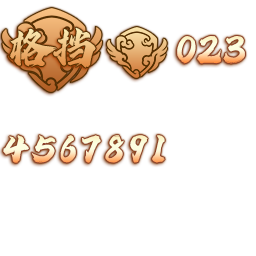
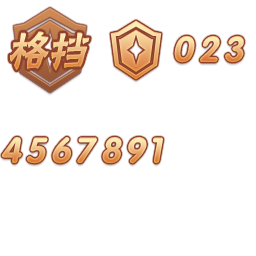
fix(scene): 恢复战斗位图字体槽位配套图

Changed region(s): [[0.0, 0.0, 0.9688, 0.375], [0.0, 0.5, 0.6562, 0.6562]]

diff --git a/Assets/Editor/CliVerify/Cases/BitmapFontCase.cs b/Assets/Editor/CliVerify/Cases/BitmapFontCase.cs
@@ -25,7 +25,7 @@ namespace Shenxiao.EditorTools
         private const string SkillNameFolder = "Assets/GameRes/resource/game/skillName";
         private const string OutputFolder = "output/ui_route_audit/2026-08-06_bitmap-font-remediation";
         // 每轮最终证据写入新目录，避免桌面查看器/报告仍映射旧 PNG 时被覆盖后误读。
-        private const string EvidenceFolder = OutputFolder + "/evidence-r4";
+        private const string EvidenceFolder = OutputFolder + "/evidence-r5";
         private const string InventoryPath = OutputFolder + "/bitmap-font-inventory.json";
         private static readonly JObject RenderedNonBackgroundPixels = new JObject();
         private static readonly string[] RequiredCombatFonts =
@@ -114,7 +114,7 @@ namespace Shenxiao.EditorTools
             {
                 ["status"] = "pass",
                 ["scope"] = "HudTop._lb_fighting + HudTaskTeam._lb_open_awaken_progress + " +
-                            "FightingUpView renamed binds + 10 combat FNT glyph fidelity + direct RawImage glyph rendering + panel lifecycle gate",
+                            "FightingUpView renamed binds + 10 combat FNT glyph fidelity + atlas slot isolation + direct RawImage glyph rendering + panel lifecycle gate",
                 ["resourceMutation"] = "none",
                 ["captures"] = captures,
                 ["renderedNonBackgroundPixels"] = RenderedNonBackgroundPixels,
@@ -315,6 +315,7 @@ namespace Shenxiao.EditorTools
                     FontFolder + "/" + fontName + ".asset");
                 Require(font != null, "战斗位图字体资产不存在: " + fontName);
                 VerifyFntGlyphFidelity(fontName, font);
+                VerifyCombatGlyphAtlasIsolation(fontName, font);
             }
 
             TMP_FontAsset attackFont = AssetDatabase.LoadAssetAtPath<TMP_FontAsset>(
@@ -360,6 +361,53 @@ namespace Shenxiao.EditorTools
                         && Mathf.Approximately(glyph.metrics.horizontalBearingY, height - yOffset)
                         && Mathf.Approximately(glyph.metrics.horizontalAdvance, advance),
                     $"FNT GlyphMetrics 抄写错误: font={fontName}, id={unicode}");
+            }
+        }
+
+        /// <summary>
+        /// 战斗数字是美术逐字图，不允许替换后的笔画越过 FNT 槽位边界。
+        /// 2026-08-06 曾出现十张 PNG 保持旧 FNT 不变、但新字的实心笔画跨槽叠到相邻数字；
+        /// GlyphRect/UV/网格本身全部正确，只有真实组合文本会显示成多笔或多字。
+        /// </summary>
+        private static void VerifyCombatGlyphAtlasIsolation(string fontName, TMP_FontAsset font)
+        {
+            string pngPath = FontFolder + "/" + fontName + ".png";
+            Require(File.Exists(pngPath), "战斗位图字体 PNG 不存在: " + pngPath);
+
+            var atlas = new Texture2D(2, 2, TextureFormat.RGBA32, false);
+            try
+            {
+                Require(ImageConversion.LoadImage(atlas, File.ReadAllBytes(pngPath), false),
+                    "战斗位图字体 PNG 解码失败: " + fontName);
+                font.ReadFontAssetDefinition();
+                const byte opaqueBoundaryThreshold = 224;
+                for (char digit = '0'; digit <= '9'; digit++)
+                {
+                    Require(font.characterLookupTable.TryGetValue(digit, out TMP_Character character)
+                            && character?.glyph != null,
+                        $"战斗位图字体缺数字: font={fontName}, char={digit}");
+                    UnityEngine.TextCore.GlyphRect rect = character.glyph.glyphRect;
+                    Require(rect.x >= 0 && rect.y >= 0 && rect.x + rect.width <= atlas.width
+                            && rect.y + rect.height <= atlas.height,
+                        $"战斗位图字体槽位越出 atlas: font={fontName}, char={digit}, rect={rect}");
+
+                    byte leftMax = 0;
+                    byte rightMax = 0;
+                    for (int y = rect.y; y < rect.y + rect.height; y++)
+                    {
+                        Color32 left = atlas.GetPixel(rect.x, y);
+                        Color32 right = atlas.GetPixel(rect.x + rect.width - 1, y);
+                        if (left.a > leftMax) leftMax = left.a;
+                        if (right.a > rightMax) rightMax = right.a;
+                    }
+                    Require(leftMax < opaqueBoundaryThreshold && rightMax < opaqueBoundaryThreshold,
+                        $"战斗位图字体实心笔画跨过 FNT 槽边界: font={fontName}, char={digit}, " +
+                        $"leftAlpha={leftMax}, rightAlpha={rightMax}, threshold={opaqueBoundaryThreshold}");
+                }
+            }
+            finally
+            {
+                UnityEngine.Object.DestroyImmediate(atlas);
             }
         }
 

diff --git a/AGENTS.md b/AGENTS.md
@@ -4,7 +4,7 @@
 
 - 前台操作与资源闭包规则：用户在电脑前时，能不用 Computer Use 就不用，禁止静默抢占鼠标键盘、窗口焦点或启动/占用 Unity；确需 Computer Use、打开/操作/批处理 Unity 或其他会影响用户前台操作的程序时，必须先说明用途、影响和预计占用时间，待用户确认后再执行。资源任务先从配置、Addressables、版本清单和实际加载链确定固定文件或最小资源闭包，只修改、校验和导入这些目标；禁止无必要全量检出 LFS、创建新 Unity `Library`、触发全库 `AssetDatabase.Refresh`，或扫描、导入、转换、重序列化约 24 万资源。全量处理确实不可避免时，必须先说明理由、范围、预计耗时和替代方案，并取得用户同意。
 
-- 位图字体绑定、直绘与尺寸规则：人工接管的 Prefab 可以重命名节点，老端 `view/node/font` 到当前控件的匹配必须优先解析 View 的序列化 Bind 字段，再以同名节点兜底；禁止只按 `GameObject.name` 判定已应用或遗漏。老端 `Image` 上残留的 `font` 属性若实际由 `SetImageSprite` 等图片链消费，不得误转成 TMP。尺寸必须联合核对 FNT `info size`、真实 glyph 槽高、老端 `BitmapFont.fontSize/autoScaleSize` 与 TMP `faceInfo.pointSize`；单个字体族异常只修对应消费者或明确绑定，禁止据此全局改写全部字体指标或重建全库资源。普通动态 TMP 位图文字恢复原生 `pointSize` 时，按本次文本的 `GetPreferredValues` 扩容、留边并重建网格；但老端若像战斗 `BitmapFont._drawText` 一样直接按 FNT 切片绘制，Unity 必须逐字使用 `x/y/width/height/xoffset/yoffset/xadvance` 直接绘制原 atlas；优先使用内置 `RawImage.uvRect` 等已有稳定出帧链，若自定义 `Graphic` 则必须追加真实 Canvas 像素门禁。不得用 TMP 的 `lineHeight/baseline/preferred/textBounds` 假冒逐字保真，也不得把 `CanvasRenderer` 有 Mesh/顶点当成已经出帧。验收必须逐字核对 FNT 与生成资产、覆盖短串到长串池复用、最大动画缩放和玩家真实场景像素；`textBounds` 落在 Rect 内或 Mesh 位于 Rect 内都只能证明几何自洽，不能证明复刻正确。
+- 位图字体绑定、直绘与尺寸规则：人工接管的 Prefab 可以重命名节点，老端 `view/node/font` 到当前控件的匹配必须优先解析 View 的序列化 Bind 字段，再以同名节点兜底；禁止只按 `GameObject.name` 判定已应用或遗漏。老端 `Image` 上残留的 `font` 属性若实际由 `SetImageSprite` 等图片链消费，不得误转成 TMP。尺寸必须联合核对 FNT `info size`、真实 glyph 槽高、老端 `BitmapFont.fontSize/autoScaleSize` 与 TMP `faceInfo.pointSize`；单个字体族异常只修对应消费者或明确绑定，禁止据此全局改写全部字体指标或重建全库资源。普通动态 TMP 位图文字恢复原生 `pointSize` 时，按本次文本的 `GetPreferredValues` 扩容、留边并重建网格；但老端若像战斗 `BitmapFont._drawText` 一样直接按 FNT 切片绘制，Unity 必须逐字使用 `x/y/width/height/xoffset/yoffset/xadvance` 直接绘制原 atlas；优先使用内置 `RawImage.uvRect` 等已有稳定出帧链，若自定义 `Graphic` 则必须追加真实 Canvas 像素门禁。不得用 TMP 的 `lineHeight/baseline/preferred/textBounds` 假冒逐字保真，也不得把 `CanvasRenderer` 有 Mesh/顶点当成已经出帧。替换 PNG 时还必须逐字检查真实不透明内容是否仍完整落在对应 FNT 槽内；PNG/FNT 哈希各自存在、Unity 与当前 CDN 同源，都不能证明二者仍配套。`fight_font_*` 等带图形前缀和动画缩放的专用 atlas 禁止纳入无逐槽门禁的全局换字；发生单族串字只修固定源图和副本，不得重做全库。验收必须逐字核对 FNT 与生成资产、槽边界、覆盖短串到长串池复用、最大动画缩放和玩家真实场景像素；`textBounds` 落在 Rect 内或 Mesh 位于 Rect 内都只能证明几何自洽，不能证明复刻正确。
 
 - 战斗飘字窗口生命周期规则：禁止用 `UILayer.Window` 一级模块根的 `activeInHierarchy` 判断是否允许飘字；合并模块根会缓存常驻，实际页面关闭只隐藏内部 `BaseView`，这种门槛会造成首次开窗后永久停飘。战斗字保持在场景低排序 Canvas，由 Window 自然遮挡；关闭面板后的验收路径必须是“战斗有飘字→打开角色面板→关闭→下一次受击仍出现”，并同时保留暂停态不生成飘字。
 

diff --git a/Docs/RuntimeCompare/BitmapFont-全局迁移-20260805.md b/Docs/RuntimeCompare/BitmapFont-全局迁移-20260805.md
@@ -75,3 +75,13 @@ Unity.exe -batchmode -projectPath <worktree> `
 - **修复方式**：保留 FNT `GlyphRect/GlyphMetrics` 的逐字边界计算，但移除自定义 Mesh 提交；每个字符改用 Unity 内置 `RawImage`，直接把同一 atlas 赋给 `texture`，把 GlyphRect 换算为 `uvRect`，并按 `xoffset/yoffset/xadvance` 设置子 Rect。短串复用成长串时复用或扩展 RawImage 子项，多余子项隐藏；父级 `CanvasGroup` 统一处理动画淡出。
 - **范围**：只修改 `DamageFontRenderer` 和定向 `BitmapFontCase`，没有修改、同步或重建任何 FNT/PNG/TMP 字体资产，没有改 Addressables，也没有扫描全库资源。新证据目录固定为 `evidence-r4/`，避免覆盖已作废的 r2/r3 结论。
 - **当前验证状态**：Core/Editor 串行离线编译均为 0 warning / 0 error；未操作用户 Unity。玩家真实战斗像素和“出现→开角色→关闭→再次出现”仍待复验，路线继续 `needs-runtime-verify`。
+
+## 8. 2026-08-06 第四次用户复查：替换图跨 FNT 槽串字
+
+用户第四次真实战斗确认 `RawImage` 路线已经恢复出帧，且日志中的四个真实伤害值依次为 `63/64/64/66`；但截图中的每个两位数都带有额外竖笔或相邻数字残片。第 6 节“问题不是图片”的判断只适用于当时检查的文件同源性，现已被更细的图像槽位检查推翻。
+
+- **根因**：十套战斗 `.fnt` 从未改变，Unity 字体资产的 `GlyphRect/GlyphMetrics` 也逐项正确；但 2026-08-04 的全局“字更换”只替换了 `yu_client/cdn/resource/font/fight_font_*.png`，没有同步调整对应 FNT。替换图把新数字画得比旧槽更宽，实心笔画直接跨过左右边界并与相邻数字重叠。Unity 同步的是 CDN 新图，而 `h5/laya/assets/resource/font` 仍保留替换前、与 FNT 配套的原图，所以此前只比较“Unity 与当前 CDN 哈希相等”反而把错误资源当成了绿灯。
+- **证据**：替换前 CDN 的十张战斗 PNG Git blob 与 H5 镜像十张 PNG 完全一致；当前 CDN/Unity 十张则全部不同。对每个数字槽左右边界扫描 Alpha，错误替换图在阈值 `224/255` 下有 77 个数字槽出现实心像素触边，替换前配套图为 0 个。`fight_font_attack` 的错误图在旧 FNT 的 `0/2/3/4/5/6` 连续槽中已经能直接看到相邻字串入。
+- **修复**：只把十张 `fight_font_attack/beattack/baoji/huixin/zhuoyue/shenwu/gedang/fantan/liuxue/huifu.png` 恢复为替换前、与现有 FNT 配套的版本，并同时修正老端 CDN 事实源与 Unity 固定副本。未改任何 `.fnt`、`.asset`、Prefab 或 Addressables，也未同步、导入或重建其他 56 套字体资源。
+- **新门禁**：`BitmapFontCase` 除了核对 FNT 坐标、RawImage UV 与真实像素，还会读取这十张 PNG，逐个检查 `0-9` 的左右槽边界；Alpha 大于等于 224 的实心笔画触边即失败。以后若要重做战斗字体，必须逐字在固定 FNT 槽内生成并先通过该门禁，不能把整张通用换字结果直接覆盖专用战斗 atlas。
+- **当前验证状态**：静态资源哈希与 Alpha 槽位检查已通过；`Shenxiao.Module.Core.csproj` 离线编译为 97 个既有 warning / 0 error，`Shenxiao.Editor.csproj` 为 2 个既有 warning / 0 error。未占用用户 Unity，因此 r5 真实图形专项与玩家同场最终复验仍待执行。玩家复验应覆盖“正常两位/多位伤害可读、无串字/截断，以及开关角色面板后继续出现”。

diff --git a/Docs/Shenxiao实施进度.md b/Docs/Shenxiao实施进度.md
@@ -1940,6 +1940,7 @@ LV/FinDunType/TrainMount 降级、Welcome no-op、未知类型兜底,5/5 True);R
 - **工具与门禁**：`BitmapFontPrefabUpgrader` 改为优先解析 View 序列化 Bind 字段、节点名兜底，并排除 Image 上的残留 font；盘点口径修正为 105 条文字绑定、68 条现行 Prefab 命中、37 条待首次转换。`evidence-r2` 与长数字 `textBounds` PASS 仅保留为被用户推翻的历史证据；当前 r3 改为逐字核对十套 FNT 的 rect/metrics、直绘网格、池复用与角色模块缓存根生命周期，不再把 TMP bounds 作为战斗完成门禁。
 - **当前验证**：Core/Editor 离线编译均 0 error，十套战斗 `.fnt/.png` 与老端源文件哈希 20/20 一致；r3 Unity 图形专项未执行，玩家同场复验也未执行，路线为 `needs-runtime-verify`。完整回卷与新规则见 [老端图片字体全局迁移 §6](RuntimeCompare/BitmapFont-全局迁移-20260805.md#6-2026-08-06-第二次用户复查tmp-路线作废与窗口生命周期)。
 - **第三次真实回卷**：玩家确认 r3 自定义 `MaskableGraphic` 运行后完全无飘字；同场日志仍持续收到 `20001` 且有真实非零伤害，根因收窄为“自定义 CanvasRenderer 有 Mesh 但玩家场景零像素”的渲染假绿。现保留 FNT 精确坐标，改为每字一个内置 `RawImage.uvRect` 直接切原 atlas，并用父 `CanvasGroup` 做淡出；没有动字体资源和 Addressables。Core/Editor 串行离线编译 0 warning / 0 error，r4 定向图形证据和玩家同场生命周期复验待执行，路线仍为 `needs-runtime-verify`。详见 [老端图片字体全局迁移 §7](RuntimeCompare/BitmapFont-全局迁移-20260805.md#7-2026-08-06-第三次用户复查自定义-graphic-零像素)。
+- **第四次真实回卷**：玩家截图确认内置 `RawImage` 已恢复出帧，但真实 `63/64/64/66` 被画出额外竖笔和邻字残片。根因不是 UV，而是 2026-08-04 全局换字后的十张 `fight_font_*` PNG 把实心笔画画出原 FNT 槽位：错误图有 77 个数字槽在 Alpha 224 阈值下触及左右边界，替换前配套图为 0。现只恢复这十张专用战斗 PNG，并同步修正老端 CDN 事实源；其余字体、FNT、TMP 资产和 Addressables 不动。专项新增逐数字槽 Alpha 边界门禁；Core/Editor 离线编译分别为 97/2 个既有 warning、均 0 error，未占用用户 Unity，玩家同场“可读→开角色→关闭→仍可读”仍待复验。详见 [老端图片字体全局迁移 §8](RuntimeCompare/BitmapFont-全局迁移-20260805.md#8-2026-08-06-第四次用户复查替换图跨-fnt-槽串字)。
 ## 2026-08-05：角色界面精修——称号详情、佩戴与场景表现闭环（R578解禁）
 
 - **详情页视觉与结构**：继续增量精修人工接管的`DsgtModule.prefab`，完成老端列表顺序、详情文案、动态称号特效、材料格与品质详情弹窗；未重转模块。`DesignationViewCase`真实Prefab冷开2070ms、热开38ms，列表拖动、末项可达、详情/材料弹窗、专用RT动态像素和佩戴/卸下点击均通过，证据目录为`output/ui_route_audit/2026-08-04_role_web_round2/cli_designation_20260805_2520/`。
